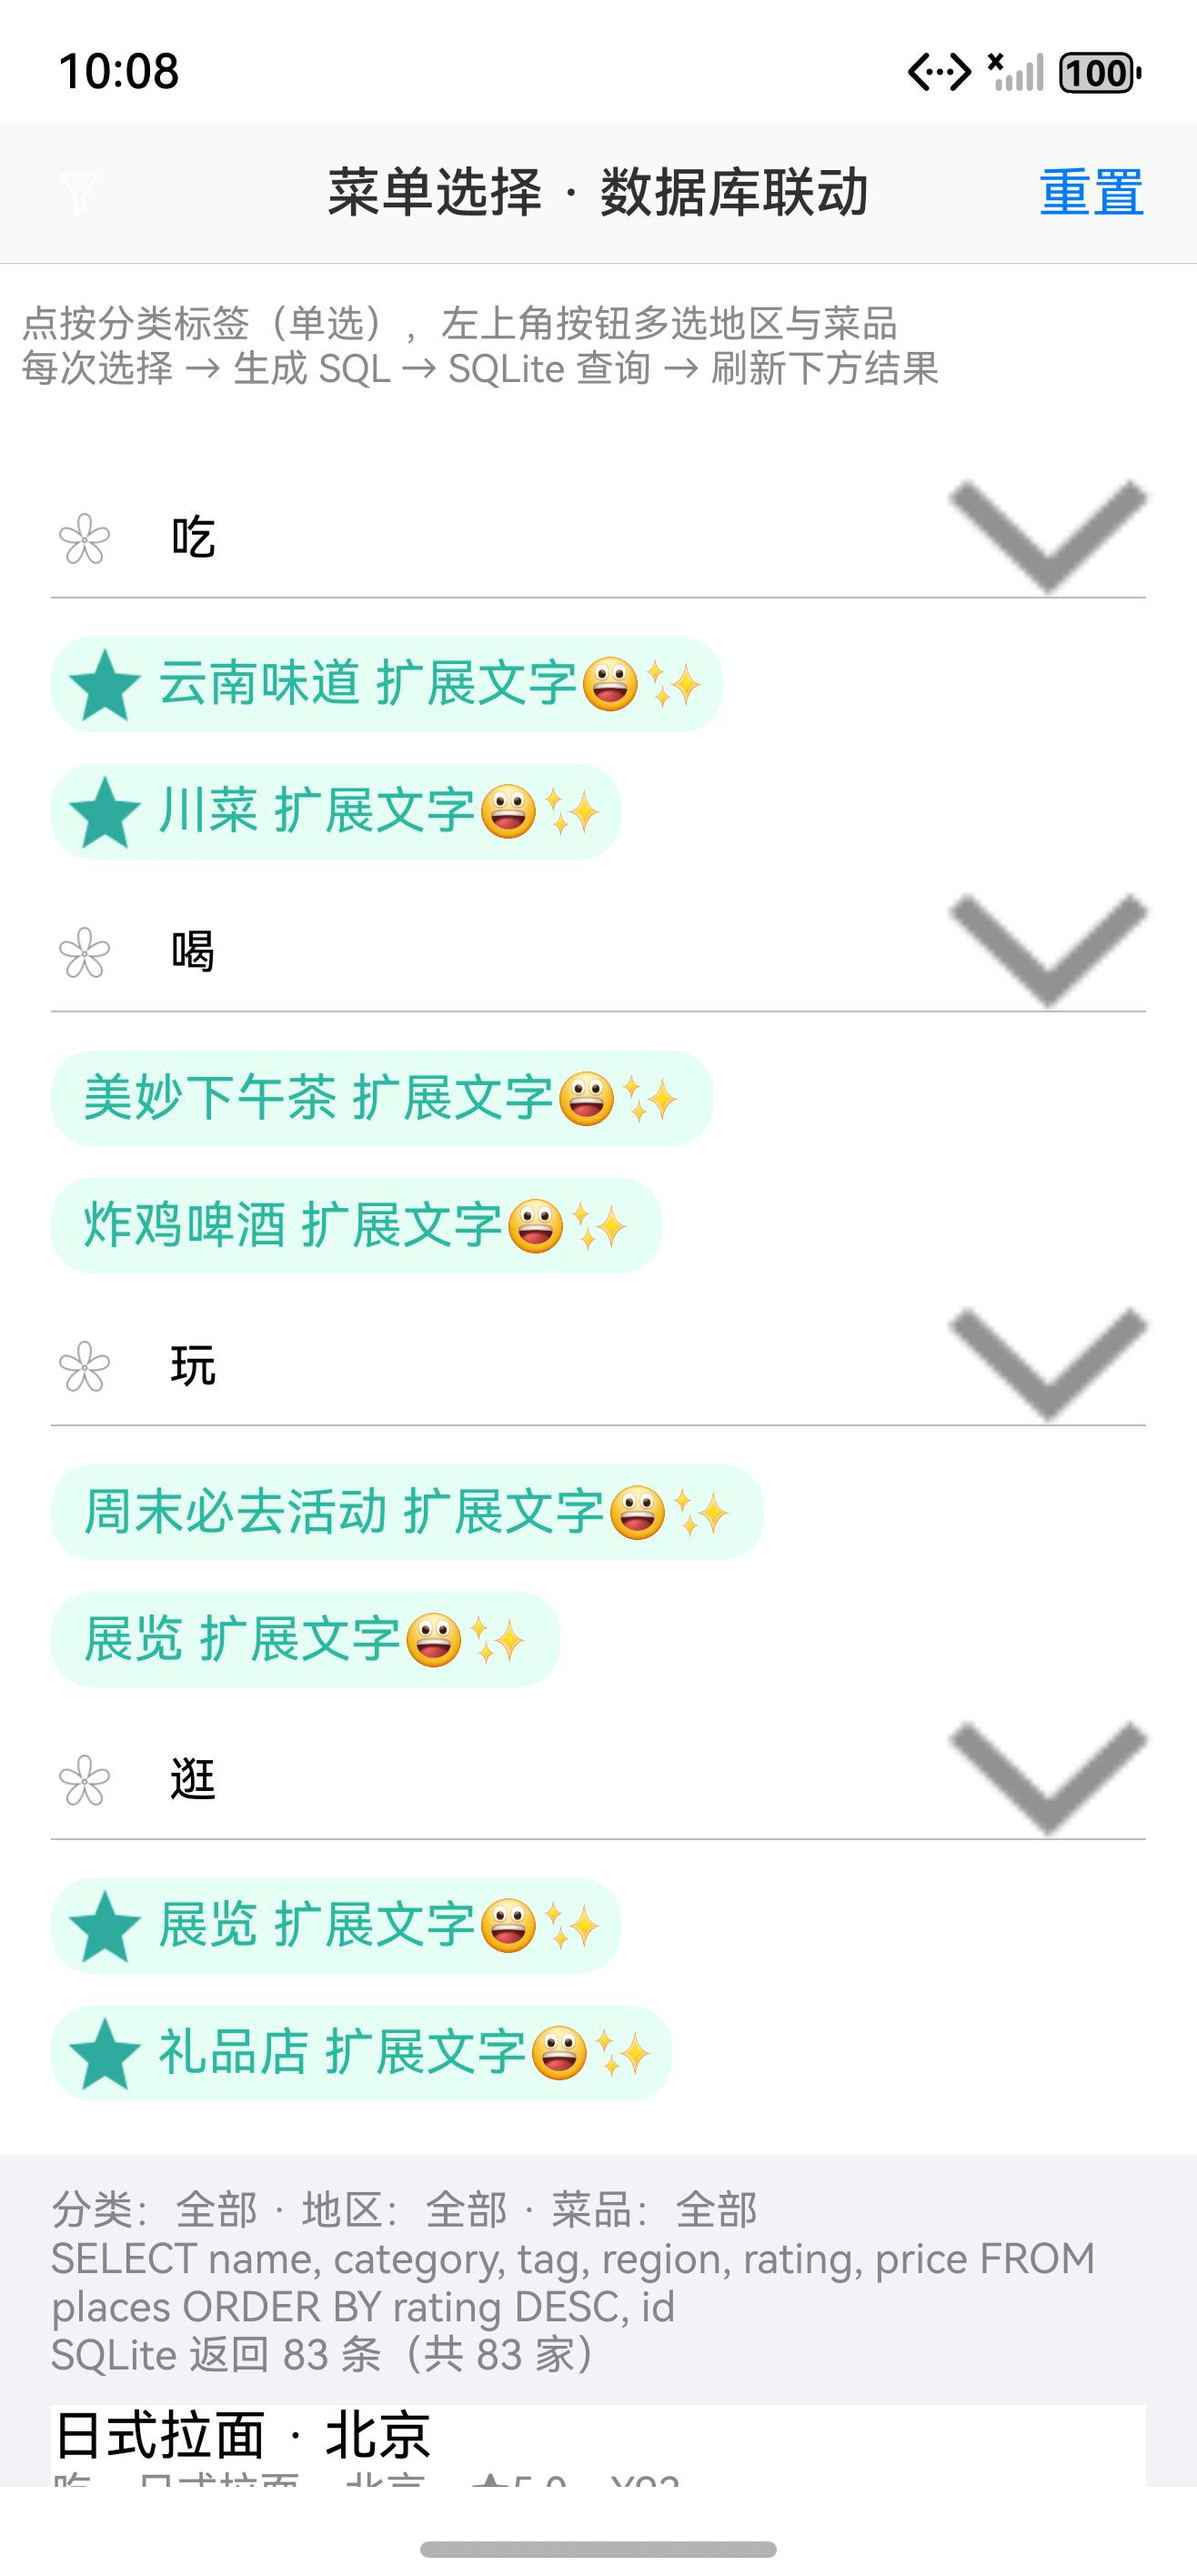
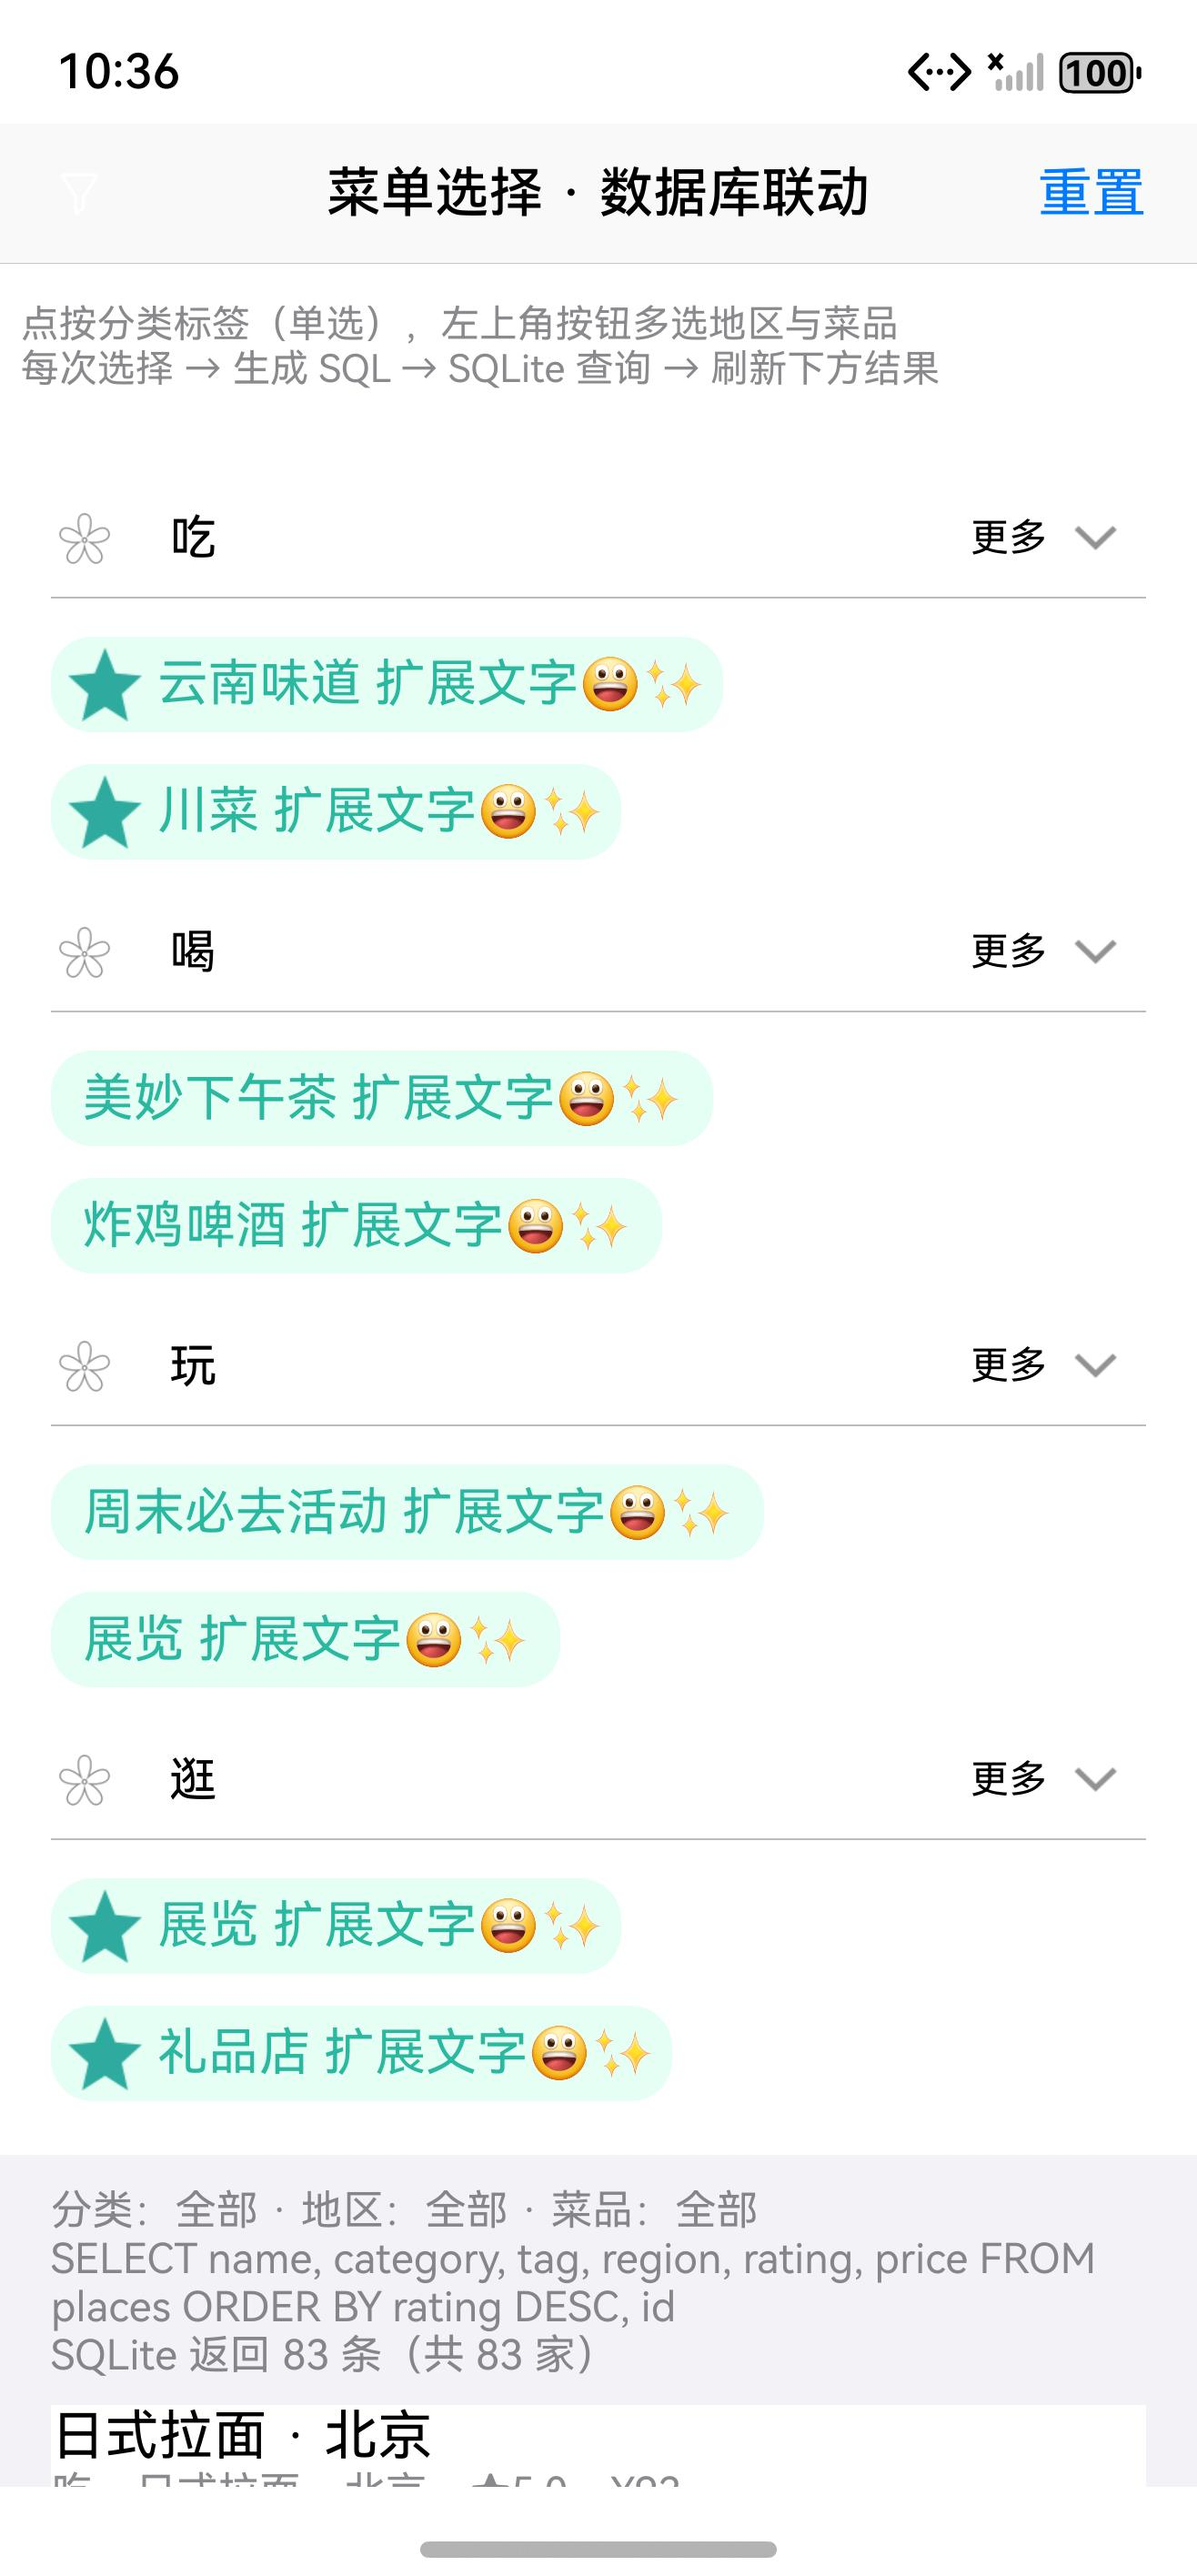
docs(harmony): 📝 menu linkage fold arrows: bug fixed, screenshot retaken
The oversized fold arrows of the menu linkage page were fixed in
5dc703b; retaken through the query scenarios flow on the emulator: each
arrow is 53 x 53 px (about 15 vp), one text line high.

By @ChenYilong <luohanchenyilong@163.com>

Claude-Session: https://claude.ai/code/session_017y7XP1mQbtZ3qSM2mvdshG

diff --git a/docs/screenshots.md b/docs/screenshots.md
@@ -64,7 +64,7 @@ the root tab bar or a demo opened by launch option. Stacked top to bottom.
 | <img src="assets/harmonyos-push-image-tag-list.jpeg" width="300" alt="HarmonyOS image-tag-list"> image tag sample → "标签列表" (Tag list) | HarmonyOS | HarmonyOS 6.0.1 SDK (API 21), emulator `CYL ClassifyMenu Test` (6.0.0.112(SP3DEVC00E112R4P11), 1316 × 2832), macOS 27.3 | `6081884` | 2026-11-16 14:55–14:57 NZDT |
 | <img src="assets/harmonyos-push-tag-cloud-list-view.jpeg" width="300" alt="HarmonyOS tag-cloud-list-view"> tag cloud sample → "列表视图" (List view) | HarmonyOS | HarmonyOS 6.0.1 SDK (API 21), emulator `CYL ClassifyMenu Test` (6.0.0.112(SP3DEVC00E112R4P11), 1316 × 2832), macOS 27.3 | `6081884` | 2026-11-16 14:55–14:57 NZDT |
 | <img src="assets/harmonyos-push-query-reviews-database.jpeg" width="300" alt="HarmonyOS query-reviews-database"> query scenarios → "评价筛选 · 数据库（SQLite）" (Review filter · database): the review list in database mode, its SQL shown | HarmonyOS | HarmonyOS 6.0.1 SDK (API 21), emulator `CYL ClassifyMenu Test` (6.0.0.112(SP3DEVC00E112R4P11), 1316 × 2832), macOS 27.3 | `7c4c294` | 2026-11-16 15:07–15:09 NZDT |
-| <img src="assets/harmonyos-push-query-menu-linkage.jpeg" width="300" alt="HarmonyOS query-menu-linkage"> query scenarios → "分类菜单 + 多选筛选 · 数据库联动" (Classify menu + multiple filter): the menu linkage page | HarmonyOS | HarmonyOS 6.0.1 SDK (API 21), emulator `CYL ClassifyMenu Test` (6.0.0.112(SP3DEVC00E112R4P11), 1316 × 2832), macOS 27.3 | `7c4c294` | 2026-11-16 15:07–15:09 NZDT |
+| <img src="assets/harmonyos-push-query-menu-linkage.jpeg" width="300" alt="HarmonyOS query-menu-linkage"> query scenarios → "分类菜单 + 多选筛选 · 数据库联动" (Classify menu + multiple filter): the menu linkage page (retaken 10:36 after `5dc703b`: the fold arrows were oversized before) | HarmonyOS | HarmonyOS 6.0.1 SDK (API 21), emulator `CYL ClassifyMenu Test` (6.0.0.112(SP3DEVC00E112R4P11), 1316 × 2832), macOS 27.3 | `7c4c294` | 2026-11-16 15:07–15:09 NZDT |
 | <img src="assets/harmonyos-push-query-search-discover.jpeg" width="300" alt="HarmonyOS query-search-discover"> query scenarios → "最近搜索 + 发现" (Recent searches + discover) | HarmonyOS | HarmonyOS 6.0.1 SDK (API 21), emulator `CYL ClassifyMenu Test` (6.0.0.112(SP3DEVC00E112R4P11), 1316 × 2832), macOS 27.3 | `7c4c294` | 2026-11-16 15:07–15:09 NZDT |
 | <img src="assets/harmonyos-push-image-tag-create.jpeg" width="300" alt="HarmonyOS image-tag-create"> image tag sample → "创建标签" (Create tags): the edit page with its steps | HarmonyOS | HarmonyOS 6.0.1 SDK (API 21), emulator `CYL ClassifyMenu Test` (6.0.0.112(SP3DEVC00E112R4P11), 1316 × 2832), macOS 27.3 | `7c4c294` | 2026-11-16 15:07–15:09 NZDT |
 | <img src="assets/harmonyos-push-tag-cloud-recycler-view.jpeg" width="300" alt="HarmonyOS tag-cloud-recycler-view"> tag cloud sample → "回收视图" (RecyclerView example) | HarmonyOS | HarmonyOS 6.0.1 SDK (API 21), emulator `CYL ClassifyMenu Test` (6.0.0.112(SP3DEVC00E112R4P11), 1316 × 2832), macOS 27.3 | `7c4c294` | 2026-11-16 15:07–15:09 NZDT |

diff --git a/docs/issue-progress.md b/docs/issue-progress.md
@@ -35,7 +35,7 @@ tags: [issues, ui, cocoapods, progress]
 
 ## 待办 / TODO
 
-### TODO (2026-11-16): HarmonyOS bug: fold arrows of the menu linkage page drawn at the wrong size
+### DONE (2026-11-16): HarmonyOS bug: fold arrows of the menu linkage page drawn at the wrong size
 
 - **Bug:** HarmonyOS example, the page titled "菜单选择 · 数据库联动" (Menu selection · database linkage,
   `CYLMenuLinkagePage`): the section fold arrows (⌄) are drawn far too large, about a quarter of the screen width, in
@@ -46,6 +46,10 @@ tags: [issues, ui, cocoapods, progress]
 - **Prompt (verbatim):** "标记bug ： 鸿蒙系统，example 页面： 搜索一下关键词“菜单选择 数据库联动 ” 含有该字符串的页面截图 中的箭头 尺寸异常。"
 - **Prompt (English):** mark a bug: HarmonyOS, example page: search for the keyword "菜单选择 数据库联动"; in the
   screenshots of the page that contains it, the arrows have an abnormal size.
+- **Result:** fixed by the port's owner in `5dc703b` (fold chevron sized like the header icons). Verified on the emulator
+  `CYL ClassifyMenu Test` (2026-11-16 10:36 emulator time) through the same flow (query scenarios → "分类菜单 + 多选筛选"):
+  the four fold arrows are 53 × 53 px (about 15 vp at density 3.5), one text line high beside "更多"; the old screenshot
+  `harmonyos-push-query-menu-linkage.jpeg` is replaced. `harmonyos-menu-linkage.jpeg` (10:25) already showed the fix.
 
 ### DONE (2026-11-16): retest the HarmonyOS fixes on the emulator
 
